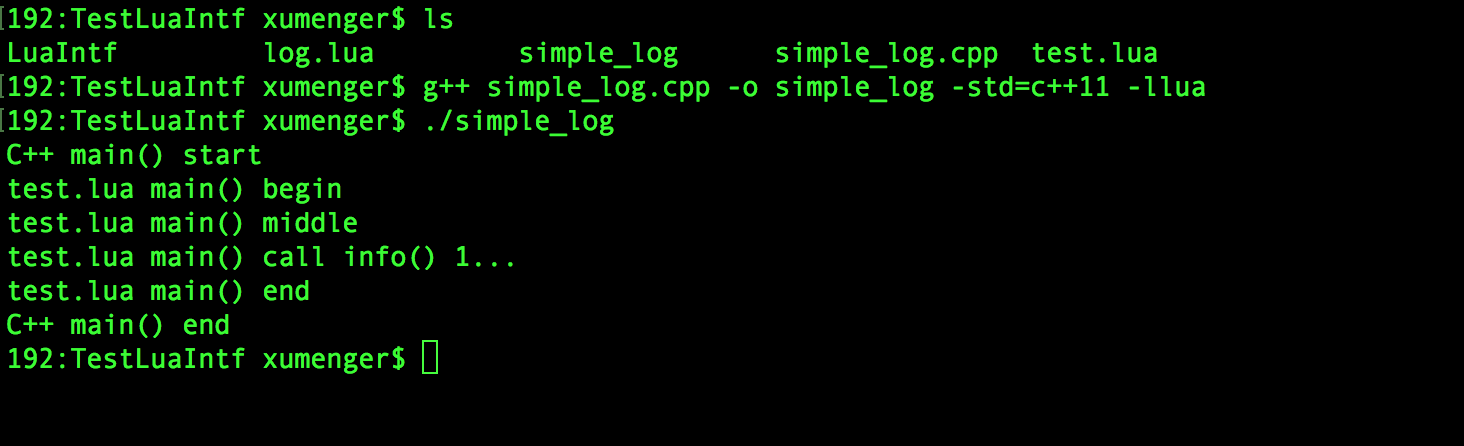
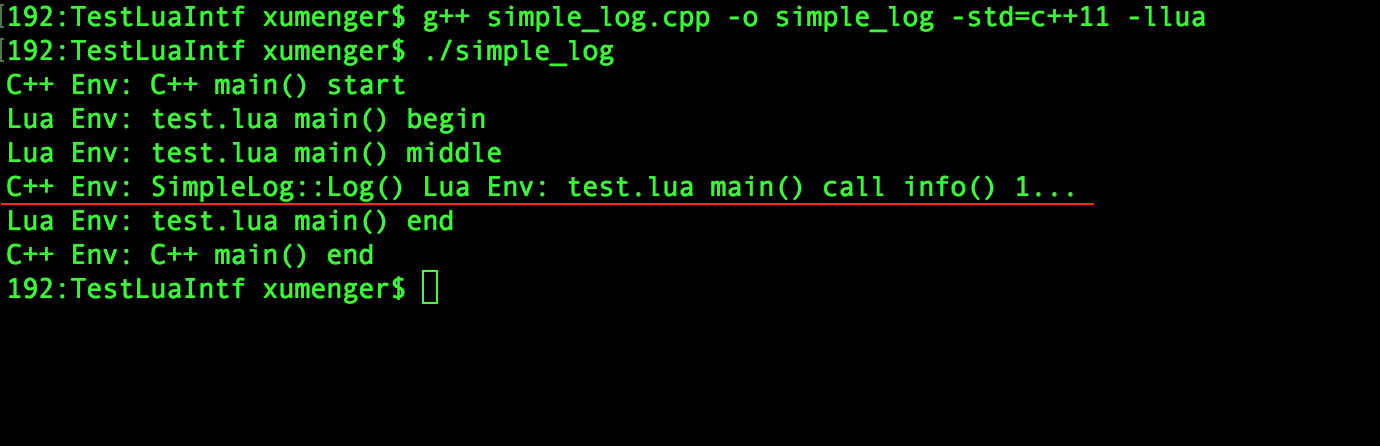
Lua调用C++代码

Changed region(s): [[0.0, 0.0, 0.8725, 0.5247], [0.0, 0.5538, 0.3428, 0.6704], [0.0, 0.6996, 0.3116, 0.8453]]

diff --git a/_posts/2019-06-07-luaintf-20190607.md b/_posts/2019-06-07-luaintf-20190607.md
@@ -152,7 +152,7 @@ SimpleLog::~SimpleLog() {
 }
 
 void SimpleLog::Log(const string &str) {
-    cout << str << endl;
+    cout << "C++ Env: SimpleLog::Log() " << str << endl;
 }
 
 namespace 
@@ -184,9 +184,9 @@ int main()
     lua_State *L = luaL_newstate();
     luaL_openlibs(L);
     SimpleLog::getInstance()->BindLua(L);
-    cout << "C++ main() start" << endl;
+    cout << "C++ Env: C++ main() start" << endl;
     luaL_dofile(L, "./test.lua");
-    cout << "C++ main() end" << endl;
+    cout << "C++ Env: C++ main() end" << endl;
     return 0;
 }
 ```
@@ -216,7 +216,7 @@ function Log:info(pattern, ...)
 end
 
 function Log:debug()
-    print("log.lua debuf()")
+    print("Lua Env: log.lua debuf()")
 end
 
 return Log
@@ -227,24 +227,24 @@ return Log
 ```lua
 local function main()
 
-    print("test.lua main() begin")
+    print("Lua Env: test.lua main() begin")
     local p = "../TestLuaIntf"
     package.path = package.path .. ";" .. p .. "/" .. "TestLuaIntf" .. "/?.lua"
 
-    print("test.lua main() middle")
+    print("Lua Env: test.lua main() middle")
 
     local log = require("log"):new("svn_log")
-    log:info("test.lua main() call info() %d...", 1)
+    log:info("Lua Env: test.lua main() call info() %d...", 1)
 
-    print("test.lua main() end")
+    print("Lua Env: test.lua main() end")
 end
 
 xpcall(main, function(...)
     local msg = {...};
     for k, v in pairs(msg) do
-        print("k=" .. tostring(k) .. " v =" .. tostring(v))
+        print("Lua Env: k=" .. tostring(k) .. " v =" .. tostring(v))
     end
-    print(tostring() .. " 123")
+    print("Lua Env: " .. tostring() .. " 123")
 end)
 ```
 
